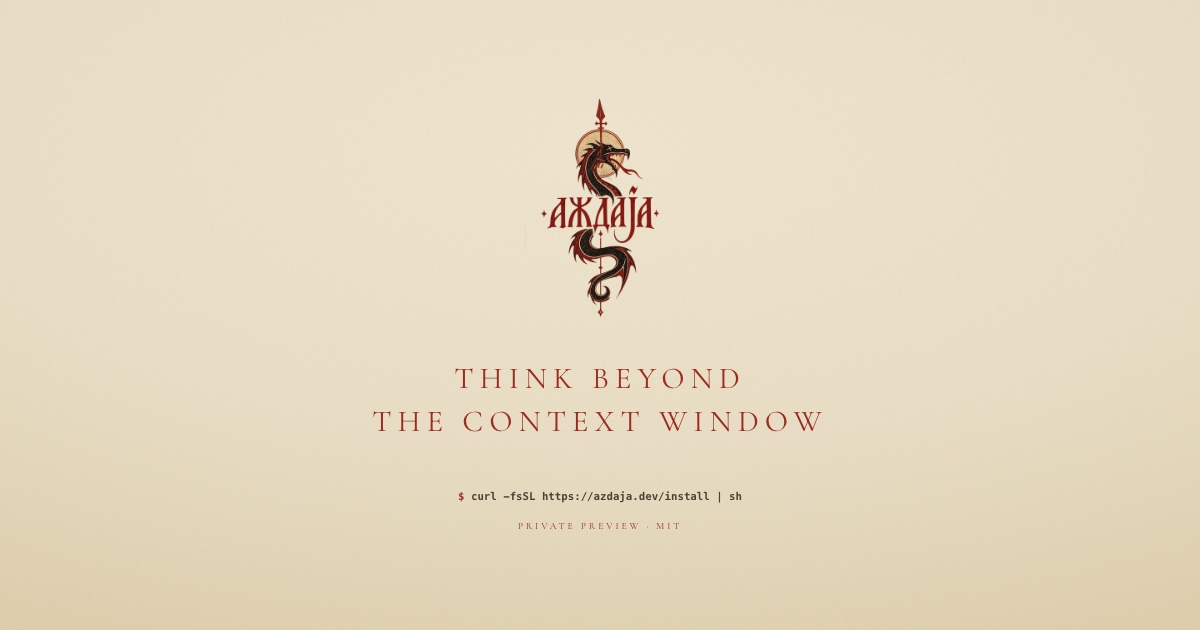
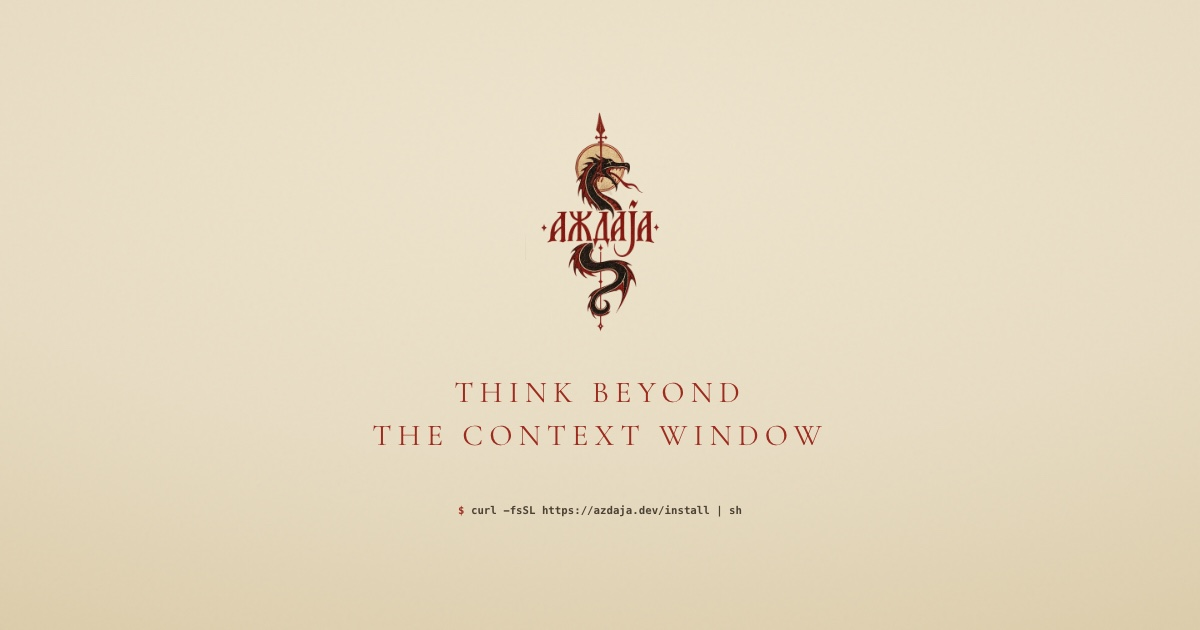
site: replace footer note with github link

Changed region(s): [[0.3083, 0.573, 0.6783, 0.7238], [0.4317, 0.1508, 0.555, 0.5127], [0.37, 0.7841, 0.6167, 0.8444]]

diff --git a/site/styles.css b/site/styles.css
@@ -17,5 +17,6 @@ h1{margin:0;color:var(--red);font-size:clamp(1.3rem,2.6vw,1.7rem);font-weight:40
 .copy p+p::first-letter{color:var(--red)}
 code{margin-top:clamp(30px,5svh,46px);color:rgba(36,28,18,.8);font:600 .67rem/1.4 "SFMono-Regular",Consolas,monospace;white-space:nowrap}
 code::first-letter{color:var(--red)}
-footer{margin-top:14px;color:var(--red);font-size:.6rem;letter-spacing:.3em;text-transform:uppercase}
+footer{margin-top:14px;font-size:.72rem;letter-spacing:.08em}
+footer a{color:var(--ink);text-decoration:underline;text-underline-offset:2px}
 @media(max-width:520px){main{width:calc(100% - 34px);padding:36px 0 44px}img{width:108px;margin-bottom:24px}h1{font-size:1.18rem;letter-spacing:.17em}.copy{margin-top:24px}.copy p{font-size:1.05rem}code{max-width:100%;margin-top:36px;font-size:.59rem;overflow:hidden;text-overflow:ellipsis}}

diff --git a/site/index.html b/site/index.html
@@ -26,7 +26,7 @@
       <p>Point it at the hundred-megabyte log, the whole codebase, the transcript that never fit. It reads what it needs, fans out heads where it must, and comes back with one answer.</p>
     </div>
     <code>$ curl -fsSL https://azdaja.dev/install | sh</code>
-    <footer>Private preview · MIT</footer>
+    <footer><a href="https://github.com/kubet/azdaja">github</a></footer>
   </main>
 </body>
 </html>
